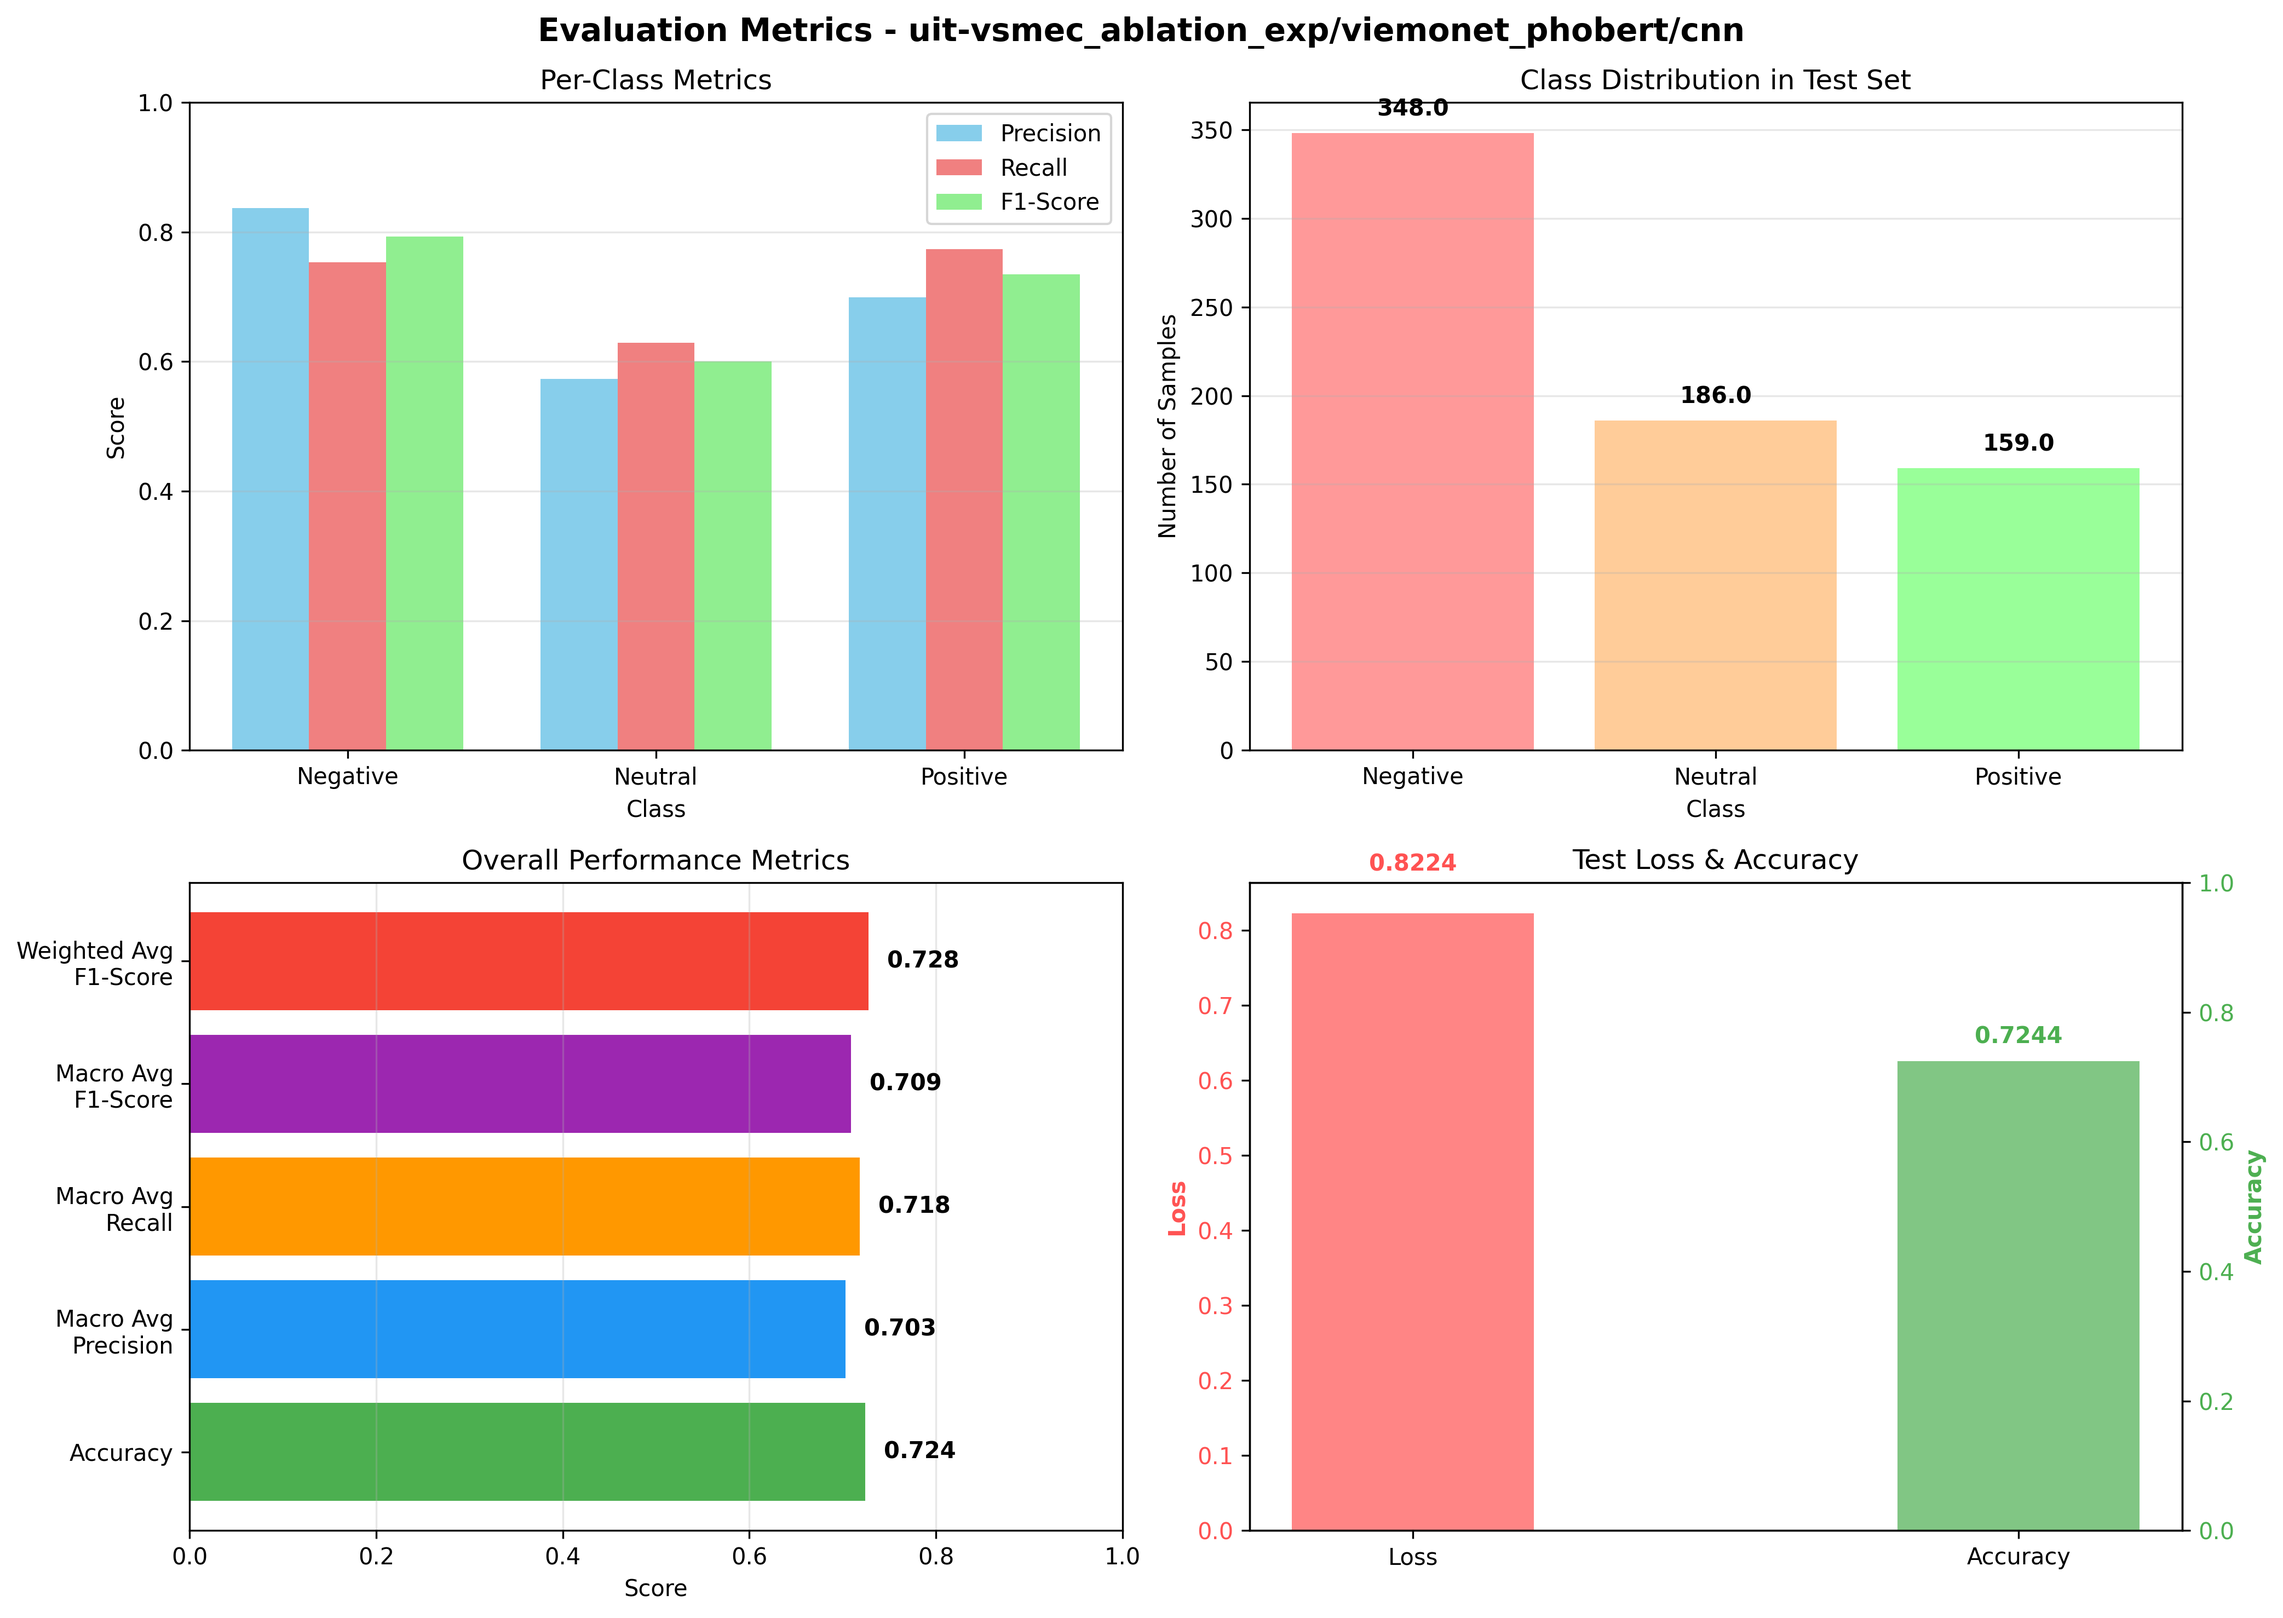
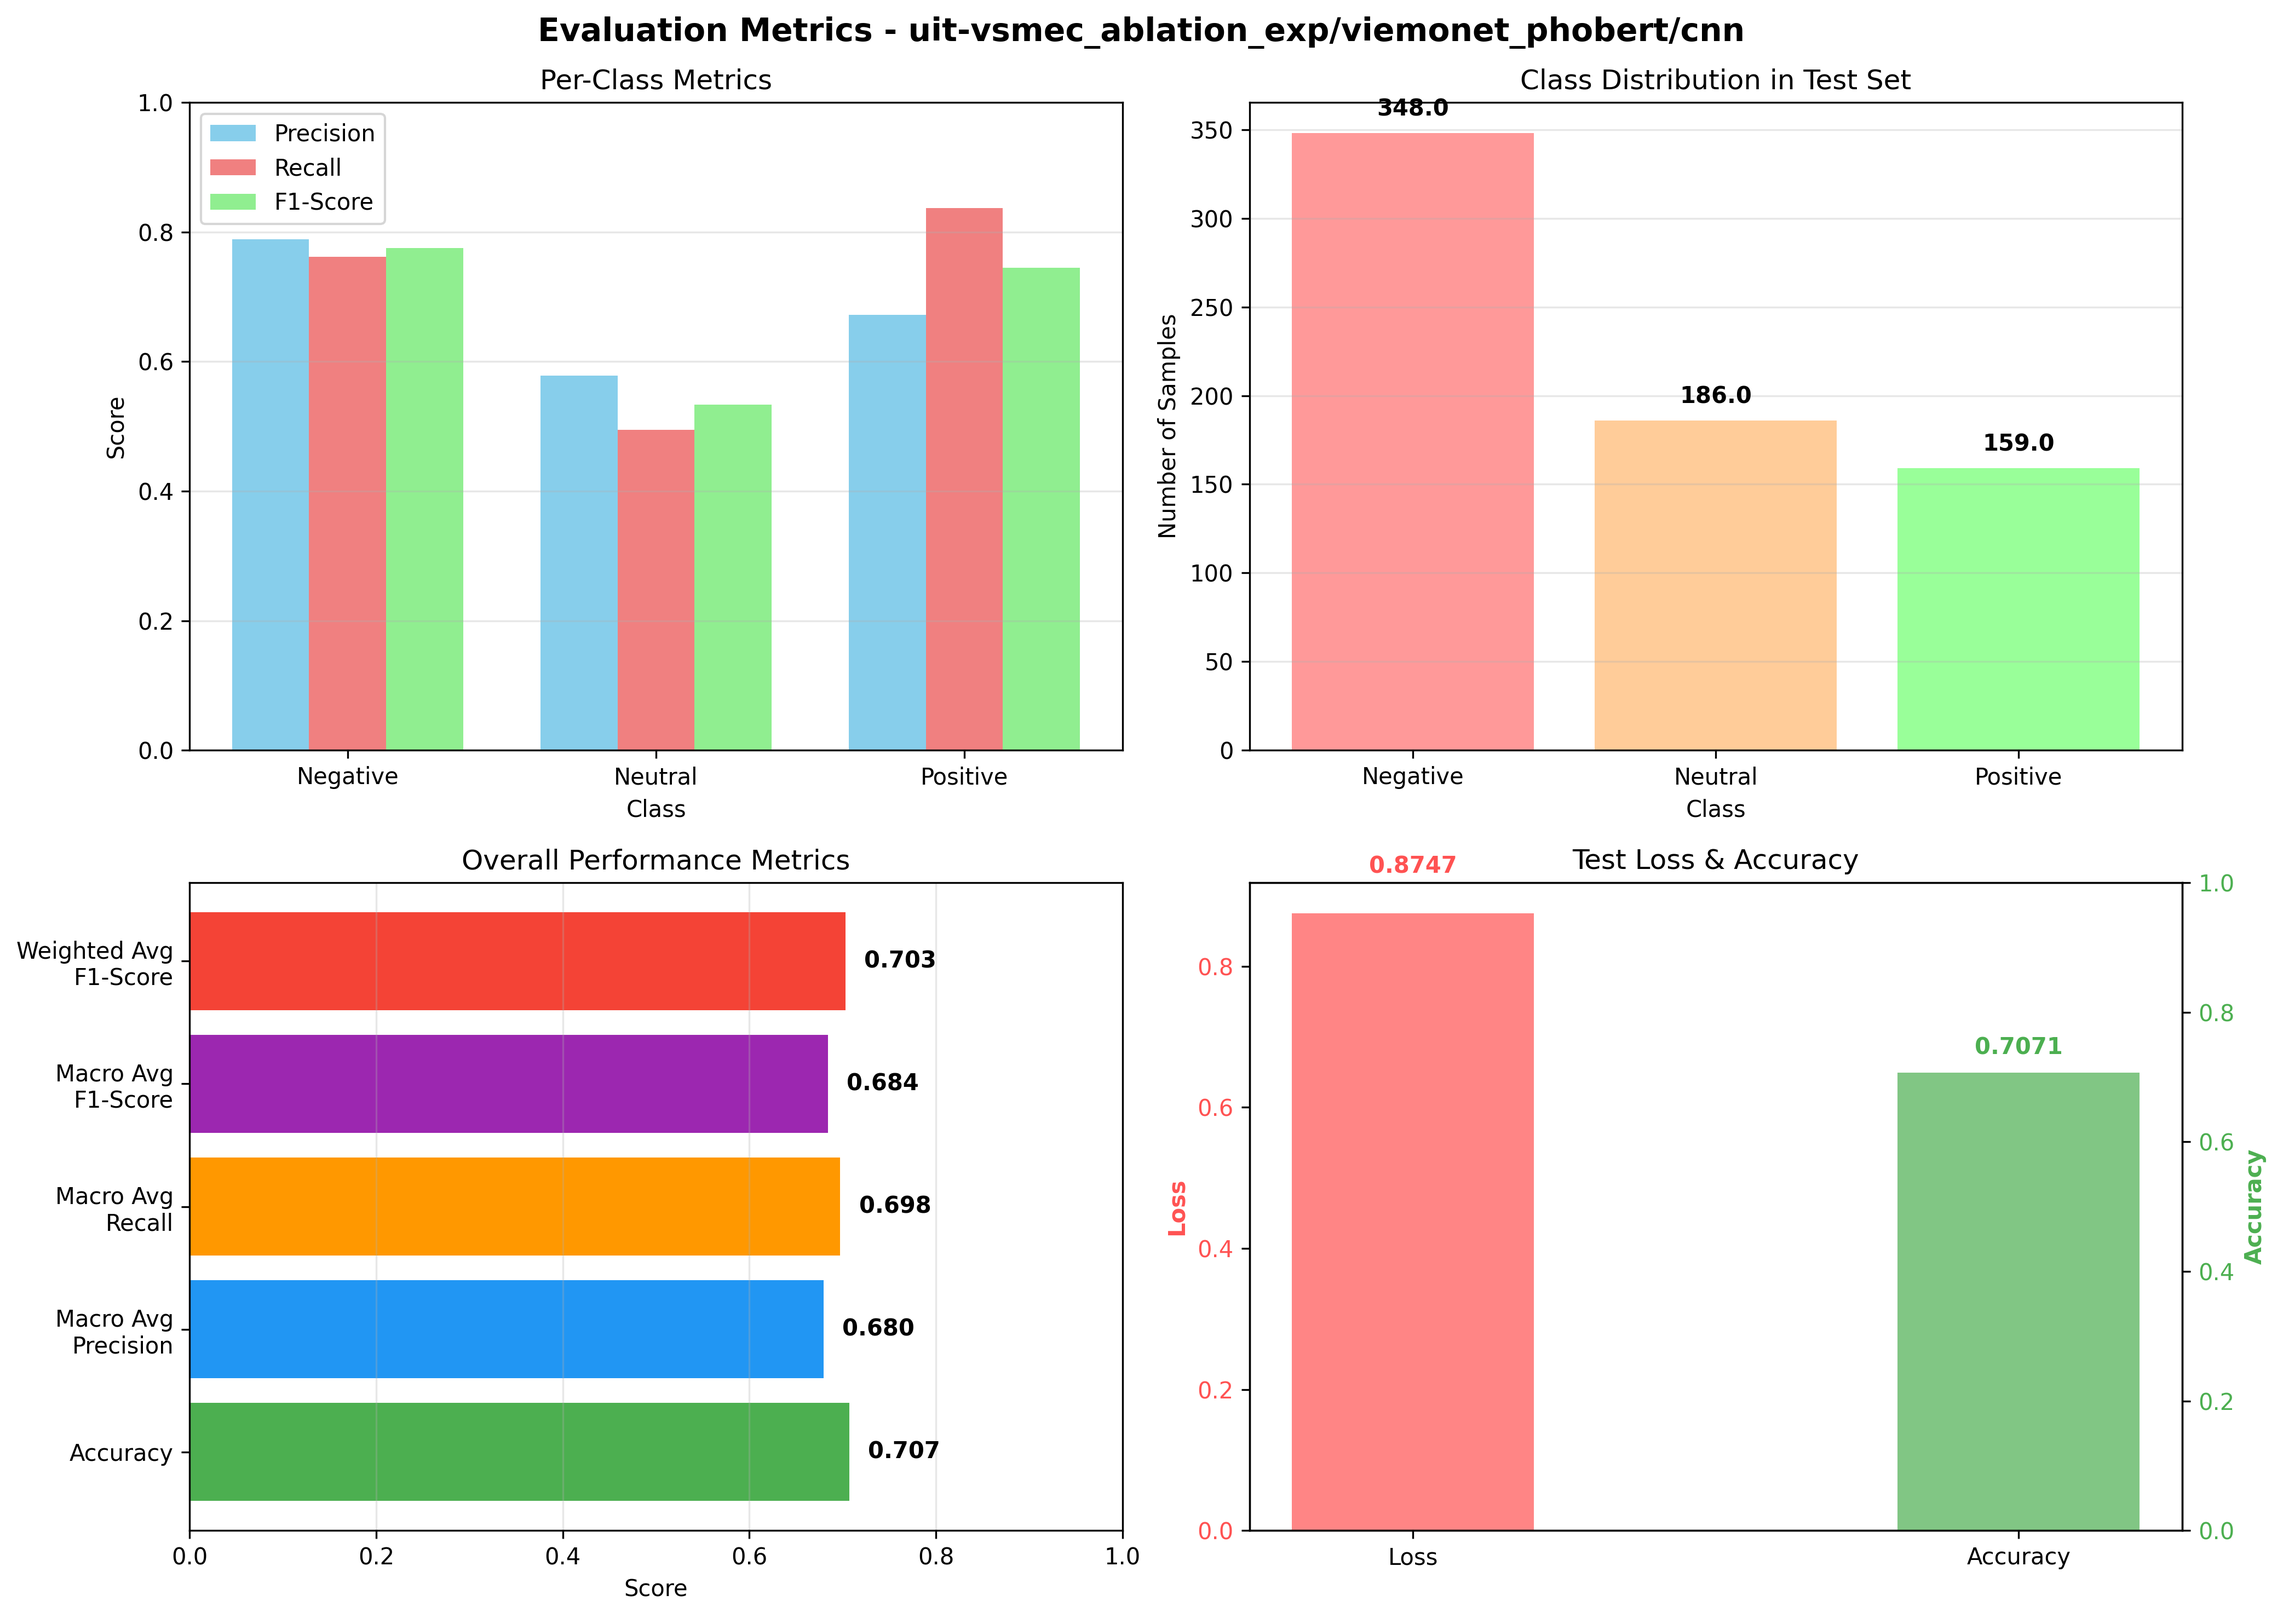
exp: new results

diff --git a/research/viemonet/models/cls_head/transformer_encoder.py b/research/viemonet/models/cls_head/transformer_encoder.py
@@ -20,13 +20,13 @@ class TransformerEncoderClassifier(BaseHead):
             dropout=tfm_cfg.dropout,
             activation=tfm_cfg.activation,
             batch_first=True,
-            norm_first=tfm_cfg.get('norm_first', False)
+            norm_first=tfm_cfg.norm_first
         )
         
         self.transformer_encoder = nn.TransformerEncoder(
             encoder_layer,
             num_layers=tfm_cfg.num_layers,
-            norm=nn.LayerNorm(encoder_dim) if tfm_cfg.get('final_norm', True) else None
+            norm=nn.LayerNorm(encoder_dim) if tfm_cfg.final_norm else None
         )
         
         self.classifier_dropout = nn.Dropout(tfm_cfg.dropout)

diff --git a/research/main.py b/research/main.py
@@ -4,10 +4,10 @@ from utils import load_dataset, load_config
 
 if __name__ == "__main__":
     config = load_config("../config.yaml")
-    dataset = load_dataset(config.datasets.social_comments.path)
+    dataset = load_dataset(config.datasets.augmentation_dataset.path)
     trainer = Trainer(
         method='separate_emotion',
         model_name='viemonet_phobert',
-        dataset_name='uit-vsmec_ablation_exp',
+        dataset_name='uit-vsfc_ablation_exp',
     )
     trainer.train(raw_data=dataset)

diff --git a/research/viemonet/models/main_models/viemonet_phobert.py b/research/viemonet/models/main_models/viemonet_phobert.py
@@ -14,7 +14,7 @@ class ViemonetModel(nn.Module):
         label_smoothing=0.1,
     ):
         super(ViemonetModel, self).__init__()
-        self.comment_classifier = CommentClassifier('phobert', 'bilstm_attention')
+        self.comment_classifier = CommentClassifier('phobert', 'gru_attention')
         self.emotion_classifier = EmotionClassifier()
         self.meta_classifier = MetaClassifier()
         self.softmax = nn.Softmax(dim=-1)
